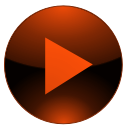
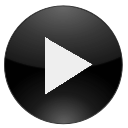
Add player animation effect for play, pause, loading

diff --git a/js/video-player.js b/js/video-player.js
@@ -1,7 +1,6 @@
 (function() {
   'use strict';
 
-  var loadingElm = document.querySelector('.sals_video_loading');
 
 
   window.onload = function() {
@@ -60,6 +59,9 @@
     var unmuteBtn = document.querySelectorAll('.sals_unmute_btn');
     var volumeIcon = document.querySelectorAll('.sals_volume__icon');
 
+    var playPauseAnimationElm = document.querySelectorAll('.play_pause_animation');
+    var loadingElm = document.querySelectorAll('.sals_video_loading');
+
     // Obtain handles to Ads buttons
     var ads = document.querySelectorAll('.sals_ads');
 
@@ -68,6 +70,7 @@
       checkAds = [],
       pausedByAd = false;
 
+    // put data-uid i.e unique id for those elements
     for (var uid = 0; uid < videoContainer.length; uid++) {
       videoContainer[uid].setAttribute('data-uid', uid);
       unmuteBtn[uid].setAttribute('data-uid', uid);
@@ -76,6 +79,8 @@
       playpause[uid].setAttribute('data-uid', uid);
       volumeController[uid].setAttribute('data-uid', uid);
       fullscreen[uid].setAttribute('data-uid', uid);
+      playPauseAnimationElm[uid].setAttribute('data-uid', uid);
+      loadingElm[uid].setAttribute('data-uid', uid);
     }
 
     for (var i = 0; i < videoContainer.length; i++) {
@@ -87,9 +92,6 @@
       video[i].volume = 0.5;
       unmuteBtn[i].style.display = 'none';
 
-
-      // hide loading
-      loadingElm.style.display = 'none';
 
       videoContainer[i].oncontextmenu = function() {
         return false;
@@ -142,9 +144,17 @@
 
         // Add event listeners for video specific events
         video[i].addEventListener('play', function() {
-          var uid = this.getAttribute('data-uid')
-          changeButtonState('playpause', uid);
+          var uid = this.getAttribute('data-uid');
 
+          loadingElm[uid].style.display = 'none';
+          // play pause animation
+          playPauseAnimationElm[uid].setAttribute('data-icon', 'play');
+          playPauseAnimationElm[uid].style.display = 'block';
+          setTimeout(function() {
+            playPauseAnimationElm[uid].style.display = 'none'
+          }, 1000)
+
+          changeButtonState('playpause', uid);
           // play action
           clearInterval(increaseTime[uid])
 
@@ -170,6 +180,15 @@
 
         video[i].addEventListener('pause', function() {
           var uid = this.getAttribute('data-uid');
+
+          loadingElm[uid].style.display = 'none';
+          // play pause animation
+          playPauseAnimationElm[uid].setAttribute('data-icon', 'pause');
+          playPauseAnimationElm[uid].style.display = 'block';
+          setTimeout(function() {
+            playPauseAnimationElm[uid].style.display = 'none'
+          }, 1000);
+
           changeButtonState('playpause', uid);
 
           // pause action
@@ -192,6 +211,18 @@
         video[i].addEventListener('ended', function() {
           var uid = this.getAttribute('data-uid');
           playVideo(video[uid]);
+        })
+
+        video[i].addEventListener('waiting', function() {
+          var uid = this.getAttribute('data-uid');
+          // loading animation
+          loadingElm[uid].style.display = 'block';
+        })
+
+        video[i].addEventListener('playing', function() {
+          var uid = this.getAttribute('data-uid');
+          // loading animation
+          loadingElm[uid].style.display = 'none';
         })
 
         // Add events for all buttons

diff --git a/css/styles.css b/css/styles.css
@@ -202,14 +202,14 @@ figure.sals_videoContainer {
   position: absolute;
   top: 0;
   right: 0;
-  background: rgba(255, 255, 255, 0.5);
+  background: rgba(0, 0, 200, 0.5);
   z-index: 9999;
   width: 100%;
   height: 100%;
   text-align: center;
   padding: 2rem;
   font-size: 1.5rem;
-  color: #000;
+  color: #eee;
   cursor: pointer;
 }
 
@@ -217,7 +217,7 @@ figure.sals_videoContainer {
   display: block;
   width: 100px;
   height: 5px;
-  background-color: #c73e07;
+  background-color: #eee;
   box-shadow: 2px 1px 4px rgba(0, 0, 0, 0.1);
   float: left;
   margin-top: 12px;
@@ -231,7 +231,7 @@ figure.sals_videoContainer {
   width: 15px;
   height: 13px;
   border-radius: 50%;
-  background-color: #c73e07;
+  background-color: #eee;
   position: absolute;
   left: 40px;
   top: -4px;
@@ -473,12 +473,21 @@ button.sals__skip_btn:focus {
 
 .sals_video_loading {
   position: absolute;
-  left: 0;
-  top: 0;
-  width: 100%;
-  background: #f6f6f6;
-  height: 100%;
+  left: 43%;
+  top: 36%;
+  width: 80px;
+  height: 80px;
+  border-radius: 50%;
+  overflow: hidden;
   z-index: 99999;
+}
+
+.sals_video_loading img {
+  width: 80px;
+  height: 80px;
+  border-radius: 50%;
+  -webkit-transfrom: scale(1.1);
+  transform: scale(1.1)
 }
 
 p.sals_video_info {
@@ -496,7 +505,7 @@ p.sals_video_info {
   height: 25px;
   text-align: right;
   position: relative;
-  color: #FC3B00;
+  color: #eee;
   line-height: 1.8;
 }
 
@@ -516,4 +525,60 @@ p.sals_video_info {
   margin-left: auto;
   margin-right: auto;
   margin-top: 50px;
+}
+
+.play_pause_animation {
+  width: 128px;
+  height: 128px;
+  position: absolute;
+  left: 39%;
+  top: 30%;
+  z-index: 99999;
+}
+
+.play_pause_animation[data-icon=play] {
+  background-image: url('../img/play.png')
+}
+
+.play_pause_animation[data-icon=pause] {
+  background-image: url('../img/pause.png')
+}
+
+.loading {
+  background-image: url('../img/loading.gif')
+}
+
+.animate_focus {
+  -webkit-animation-name: animate_focus;
+  animation-name: animate_focus;
+  -webkit-animation-duration: 1s;
+  animation-duration: 1s;
+}
+
+@-webkit-keyframes {
+  0% {
+    opacity: 1;
+    -webkit-transfrom: scale(1.2);
+    transform: scale(1);
+  }
+
+  100% {
+    opacity: 0;
+    -webkit-transfrom: scale(1);
+    transform: scale(0.5);
+  }
+}
+
+@keyframes animate_focus {
+  0% {
+    opacity: 1;
+    -webkit-transfrom: scale(1.2);
+    transform: scale(1);
+  }
+
+  100% {
+    opacity: 0;
+    -webkit-transfrom: scale(1);
+    transform: scale(0.5);
+  }
 }

diff --git a/shortcode.php b/shortcode.php
@@ -26,7 +26,10 @@ function sals_video_shortcode($attr) {
   if($video_start_time <= time()) :
 ?>
   <figure class="sals_videoContainer" data-fullscreen="false">
-    <div class="sals_video_loading"></div>
+    <div class="sals_video_loading" style="display: none">
+      <img src="<?= plugin_dir_url(__FILE__).'img/loading.gif';?>">
+    </div>
+    <div class="play_pause_animation animate_focus" data-icon="play" style="display: none"></div>
     <div class="sals_unmute_btn">Click to play sound</div>
     <div class="sals_video_main">
       <video class="sals_video" preload="metadata" data-videostart="<?= $video_start_time; ?>"

diff --git a/sals.php b/sals.php
@@ -44,7 +44,7 @@ function sals_frontend_scripts() {
   ));
 
   // load css for frontend
-  wp_enqueue_style('sals-styles-frontend', plugin_dir_url(__FILE__).'css/styles.css', array(), '1.1.1');
+  wp_enqueue_style('sals-styles-frontend', plugin_dir_url(__FILE__).'css/styles.css', array(), '1.1.2');
 }
 // load scripts to backend
 add_action('admin_enqueue_scripts', 'sals_backend_scripts');
